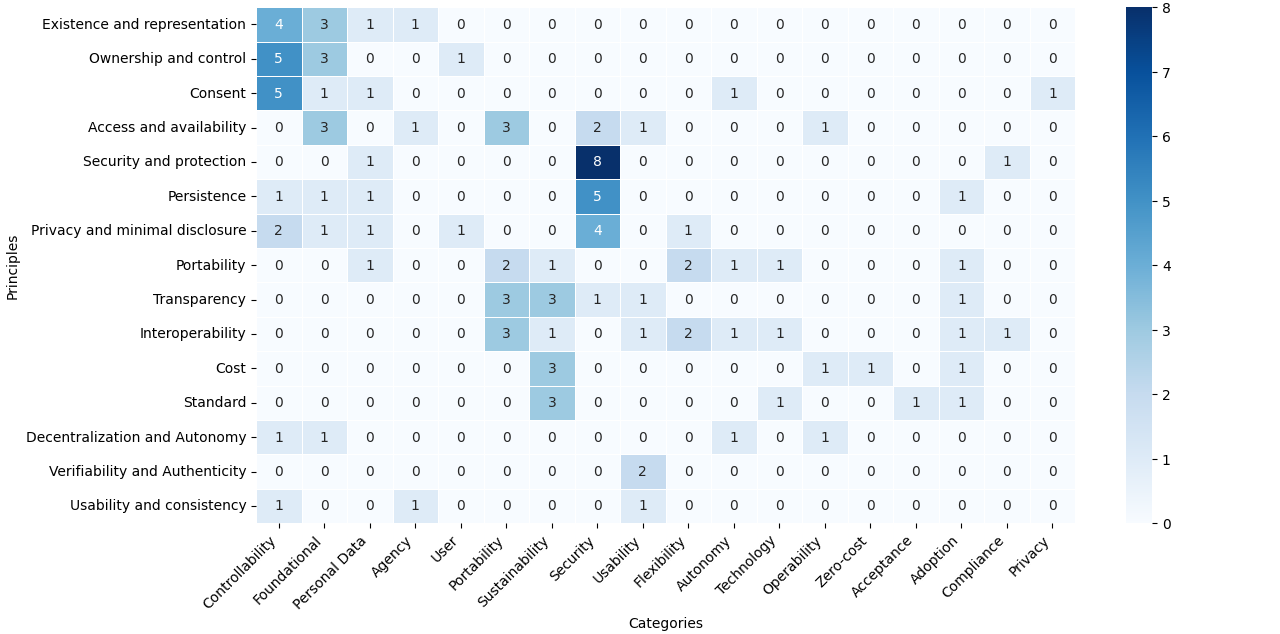
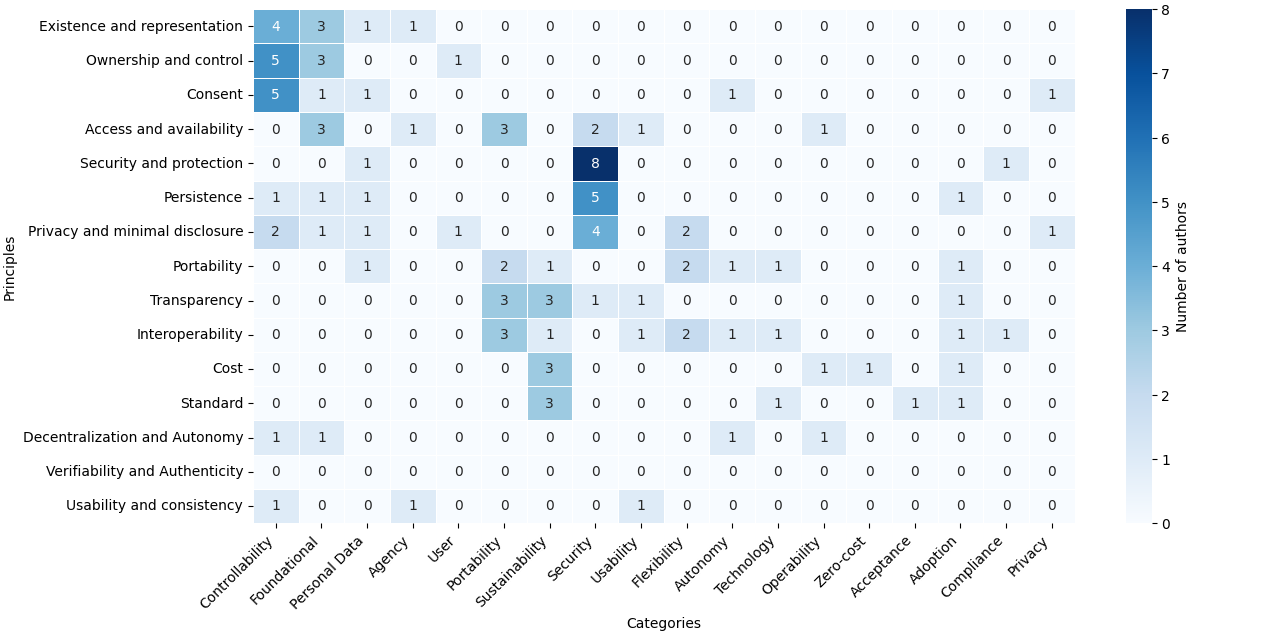
.

diff --git a/definition/program/clustering/graphs/Heatmap.py b/definition/program/clustering/graphs/Heatmap.py
@@ -32,7 +32,11 @@ df = pd.DataFrame(data, index=categories).T
 
 # Creating the Heatmap
 plt.figure(figsize=(12, 6))
-sns.heatmap(df, cmap="Blues", annot=True, fmt="d", linewidths=0.5, cbar=True)
+ax= sns.heatmap(df, cmap="Blues", annot=True, fmt="d", linewidths=0.5, cbar=True)
+
+colorbar = ax.collections[0].colorbar
+colorbar.set_label("Number of authors", fontsize=10)
+
 plt.title("")
 plt.ylabel("Principles")
 plt.xlabel("Categories")

diff --git a/definition/Definition.md b/definition/Definition.md
@@ -123,7 +123,7 @@ However, the Table 4 provides a scattered analysis of categorizations. Hence, be
 3. How many categories are relayed by each author?
 4. How are principles distributed across categories by authors?
 
-Figure 6 answers the first question, while Figures 7, 8, and 9 each address one of the remaining questions.
+Figure 6 answers the first question, Figures 7 addresses the second question, and finally, Figure 8 addresses the remaining questions.
 
 The next chart highlights the distribution of principles across categories, emphasizing key areas of focus and identifying gaps. For example, "Security" and "Controllability" dominate, reflecting their critical role in building trust and establishing the core framework for SSI systems. Moderately emphasized categories, such as "Portability," "Sustainability," and "Usability," suggest attention to practicality and user experience. However, categories like "Agency," "Compliance," and "Zero Cost" show minimal occurrences, indicating potential areas for further exploration. Modest representation in "Adoption" and "Technology" signals their growing importance as SSI solutions transition toward broader implementation. Privacy, while essential, appears less explicitly emphasized, possibly being subsumed under broader principles like security. Overall, the chart reveals the dominance of "Controllability" and "Security" concerns while highlighting underexplored aspects that may shape future SSI research and development.
 
@@ -143,22 +143,34 @@ This comparison underscores the alignment and divergence in focus between the ar
 ![Category frequency](/definition/images/clusters/Distribution_of_Principles_and_Articles_Occurrences_by_Category.png)
 *Figure 7: The number of distinct principles and articles per category.*
 
-The Figure 8 answers the question: *How are principles distributed across categories by authors?* The bubble plot provides a comprehensive overview of how various authors address different categories by mapping the number of principles they cover. The Y-axis lists the authors, such as Allen, Čučko et al., Stokkink and Pouwelse, and others, while the X-axis features categories like "Controllability," "Foundational," "Personal Data," "Sustainability," "Security," "Usability," and more. Each bubble represents the number of principles an author has discussed in a specific category, with the size of the bubble visually indicating the magnitude. Larger bubbles signify a greater number of principles, while smaller bubbles represent fewer principles. The exact count of principles is also displayed inside each bubble, providing precise data for analysis.
+The next chart aims to answer two questions: *How many categories are relayed by each author? How are principles distributed across categories by authors?* 
+
+The bubble plot provides a comprehensive overview of how various authors address different categories by mapping the number of principles they cover. The Y-axis lists the authors, such as Allen, Čučko et al., Stokkink and Pouwelse, and others, while the X-axis features categories like "Controllability," "Foundational," "Personal Data," "Sustainability," "Security," "Usability," and more. Each bubble represents the number of principles an author has discussed in a specific category, with the size of the bubble visually indicating the magnitude. Larger bubbles signify a greater number of principles, while smaller bubbles represent fewer principles. The exact count of principles is also displayed inside each bubble, providing precise data for analysis.
 
 The chart reveals significant patterns and trends. Certain categories like "Controllability," "Foundational," and "Sustainability" receive substantial attention, as evidenced by larger bubbles for authors such as Gilani et al., which for instance, addresses 5 principles under the "Foundational" category. Even Čučko demonstrates significant engagement across multiple categories, such as "Controllability," "Sustainability," and "Adoption."
 
 In contrast, categories like "Acceptance," "Zero-cost," "Compliance," and "Privacy" are sparsely addressed. Few or no bubbles appear in these areas, indicating limited focus by the authors. For example, "Acceptance" and "Zero-cost" are each covered by only one principle from a single author, demonstrating these categories' low prioritization compared to others. This may also be because we have already filtered out principles from the previous stage.
 
-The chart also highlights diversity in author contributions. Indeed, reading by row we can see the categories by each author. Some authors provide many categories, reflecting a broad and comprehensive approach. On the other hand, other authors, such as Naik and Jenkins, Stokkink and Pouwelse, Allen, etc., did not convey any categorization. Finally, this visualization provides valuable insights into the distribution of attention among different categories and authors, helping to identify both heavily discussed topics and underexplored areas. It also emphasizes the pivotal role of authors in shaping discussions across critical categories, especially those with the most significant bubbles.
+The chart also reveals additional insights into the number of categories per author. By reading the rows, one can see the different categories presented by authors. For example, some authors provide many categories, reflecting a broad and comprehensive approach to SSI. Among them, Čučko provides six categories, Ferdous five, and Sheldrake one. On the other hand, other authors, such as Naik and Jenkins, Stokkink and Pouwelse, Allen, etc., did not convey any categorization, and they preferred to focus only on the defintion of principles. Finally, this visualization provides valuable insights into the distribution of attention among different categories and authors, helping to identify both heavily discussed topics and underexplored areas. It also emphasizes the pivotal role of authors in shaping discussions across critical categories, especially those with the most significant bubbles.
 
 ![Category frequency](/definition/images/clusters/Distribution_authors_contribution.png)
 *Figure 8: Distribution of principles across categories by authors.*
 
-We applied clustering techniques to group principles our clustering process. The resulting table is presented in the first sheet of the [Excel file](https://cristianlepore.github.io/Self-Sovereign-Identity/definition/tables/principles_classification/Summary.xlsx). In this table, rows represent the 15 properties, columns correspond to the categorization of principles from [Table 4](https://cristianlepore.github.io/Self-Sovereign-Identity/definition/tables/principles_classification/Principles_classification1), and cell numbers indicate occurrences by author. We employed three clustering techniques: Greedy, K-Means, and Graph Theory.
+**Clustering techniques**
 
-RIPORTARE I PROGRAMMI
+At this stage, we aim to use information from authors and categories to cluster principles. To achieve this, we first showcase the alignment of principles and categories through the lens of author mentions. Then, we have applied three of the clustering techniques described in [^bishop][^park][^saxena][^rai]: Greedy Clustering,[^park] K-Means,[^saxena][^rai] and Graph Theory.[^saxena] We selected Greedy Clustering for its simplicity, K-Means for its ability to analyze intra-cluster distances, and Graph Theory for its suitability in representing clusters as graphs. However, they all have limitations that we will discuss in the different subsections; for example, the Graph Theory has limitations in handling outliers and detecting overlapping clusters.[^saxena] We finally compared results from the three different techniques to decide our final categories.
+
+#### A) 
+Greedy models iteratively select the locally optimal solution, minimizing the distance between clusters through a combination of local information and greedy heuristics.[^bishop] We have manually applied this technique to the heatmap shown in Figure 9. This heatmap showcases the alignment of principles and categories through the lens of author mentions, visualized as a matrix where the intensity of blue represents the frequency of authors. Principles are listed along the rows, while categories span the columns, with the values in each cell signifying the number of authors supporting that specific combination. A gradient from white to dark blue indicates the range of values, from 0 (no mentions) to 8 (highest mentions).
+
+At its core, the chart underscores the prominence of "Security," with the "Security and protection" principle achieving the highest author consensus at 8 mentions. Related principles like "Access and availability" and "Persistence" also align closely with the "Security" category, reflecting its pivotal role in the framework. Additionally, principles such as "Ownership and control," "Consent," and "Privacy and minimal disclosure" emerge as crucial themes, strongly linked to foundational elements like "Personal Data" and "Security."
+
+Conversely, categories such as "Compliance," "Adoption," and "Zero-cost" show limited engagement, signaling potential areas for deeper inquiry or innovation. Meanwhile, principles like "Transparency" and "Decentralization and Autonomy" exhibit focused but modest attention across select categories, hinting at their niche relevance.
+
+The process begins by selecting the column from the [excel file](https://cristianlepore.github.io/Self-Sovereign-Identity/definition/tables/principles_classification/Summary.xlsx) (second sheet) with the highest number of occurrences and grouping rows that minimize the distance from that column. The Greedy approach has the advantage that is easy to use and simple. Despite its simplicity, it does not always guarantee a globally optimal solution because part of the result depend from the starting point. If not properly chosed, the local optimal does not coincide with the global optimal. Therefor, when multiple categories have the same number of instances, it is essential to minimize the distance between clusters by considering multiple categories.
+
 ![Clustering](/definition/images/clusters/Heatmap.png)
-*Figure 5: *
+*Figure 9: *
 
 ![Clustering](/definition/images/clusters/Bubble.png)
 *Figure 6: *
@@ -168,11 +180,9 @@ RIPORTARE I PROGRAMMI
 
 To better illustrate the relationship between properties and key aspects of SSI, we created five groups of principles based on past definitions.
 
-**Clustering techniques**
+1) K-Means aims to minimize intra-cluster distances. Graphically, it initializes a centroid at a random point on the chart and iteratively adjusts to find the nearest points. The number of centroids, K, significantly affects the result. We automate the process through the following steps: [Python Program](https://cristianlepore.github.io/Self-Sovereign-Identity/definition/program/Compute_K-Means.py) whose main steps are as follows:
 
-1) Greedy models iteratively select the locally optimal solution, minimizing the distance between clusters. The process begins by selecting the column from the [excel file](https://cristianlepore.github.io/Self-Sovereign-Identity/definition/tables/principles_classification/Summary.xlsx) (second sheet) with the highest number of occurrences and grouping rows that minimize the distance from that column. The Greedy approach has the advantage that is easy to use and simple. Despite its simplicity, it does not always guarantee a globally optimal solution because part of the result depend from the starting point. If not properly chosed, the local optimal does not coincide with the global optimal. Therefor, when multiple categories have the same number of instances, it is essential to minimize the distance between clusters by considering multiple categories.
-
-2) K-Means aims to minimize intra-cluster distances. Graphically, it initializes a centroid at a random point on the chart and iteratively adjusts to find the nearest points. The number of centroids, K, significantly affects the result. We automate the process through the following steps: [Python Program](https://cristianlepore.github.io/Self-Sovereign-Identity/definition/program/Compute_K-Means.py) whose main steps are as follows:
+RIPORTARE I PROGRAMMI
 
 - The program reads data from a CSV file 
 `data = pd.read_csv(file_path)`
@@ -435,3 +445,11 @@ The breakdown of responses to the 20 questions in the questionnaire.
 [^essif]: ESSIF-Lab. Essif-lab principles. https://essif-lab.github.io/framework/docs/essifLab-principles, 2024. Accessed: 2024-12- 24.
 
 [^heuristic]: heuristic definition. Cambridge dictionary. https://dictionary.cambridge.org/dictionary/english/heuristic, accessed on 2024-02-03.
+
+[^saxena]: Saxena, Amit, et al. "A review of clustering techniques and developments." Neurocomputing 267 (2017): 664-681.
+
+[^rai]: Rai, Pradeep, and Shubha Singh. "A survey of clustering techniques." International Journal of Computer Applications 7.12 (2010): 1-5.
+
+[^park]: Park, Dohyung, Constantine Caramanis, and Sujay Sanghavi. "Greedy subspace clustering." Advances in neural information processing systems 27 (2014).
+
+[^bishop]: Bishop, Christopher M. Pattern recognition and machine learning by Christopher M. Bishop. Springer Science+ Business Media, LLC, 2006.
